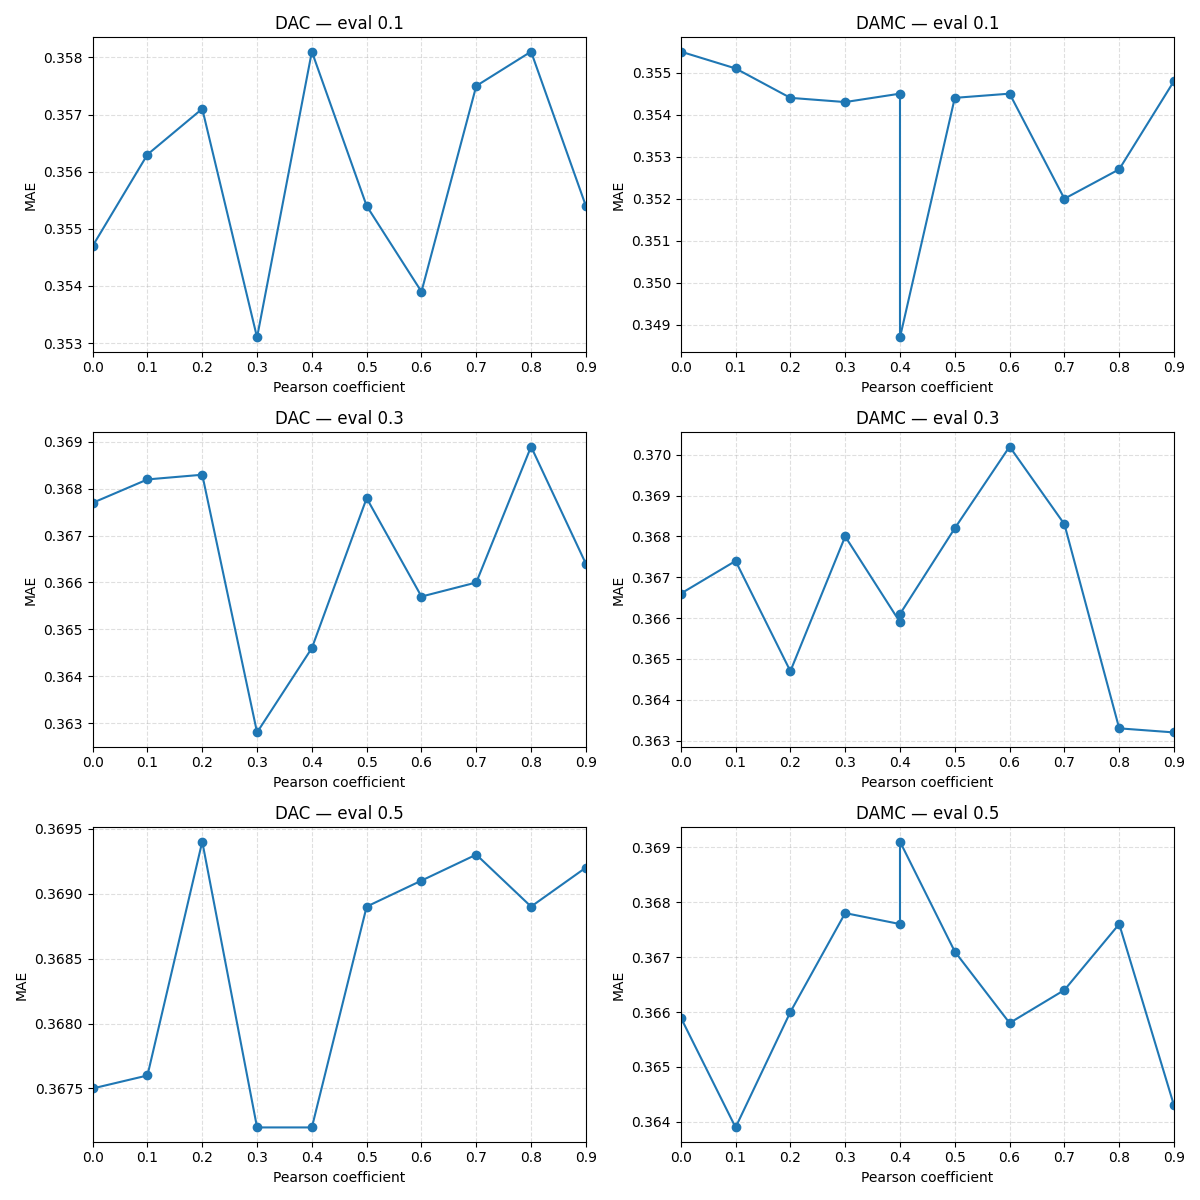
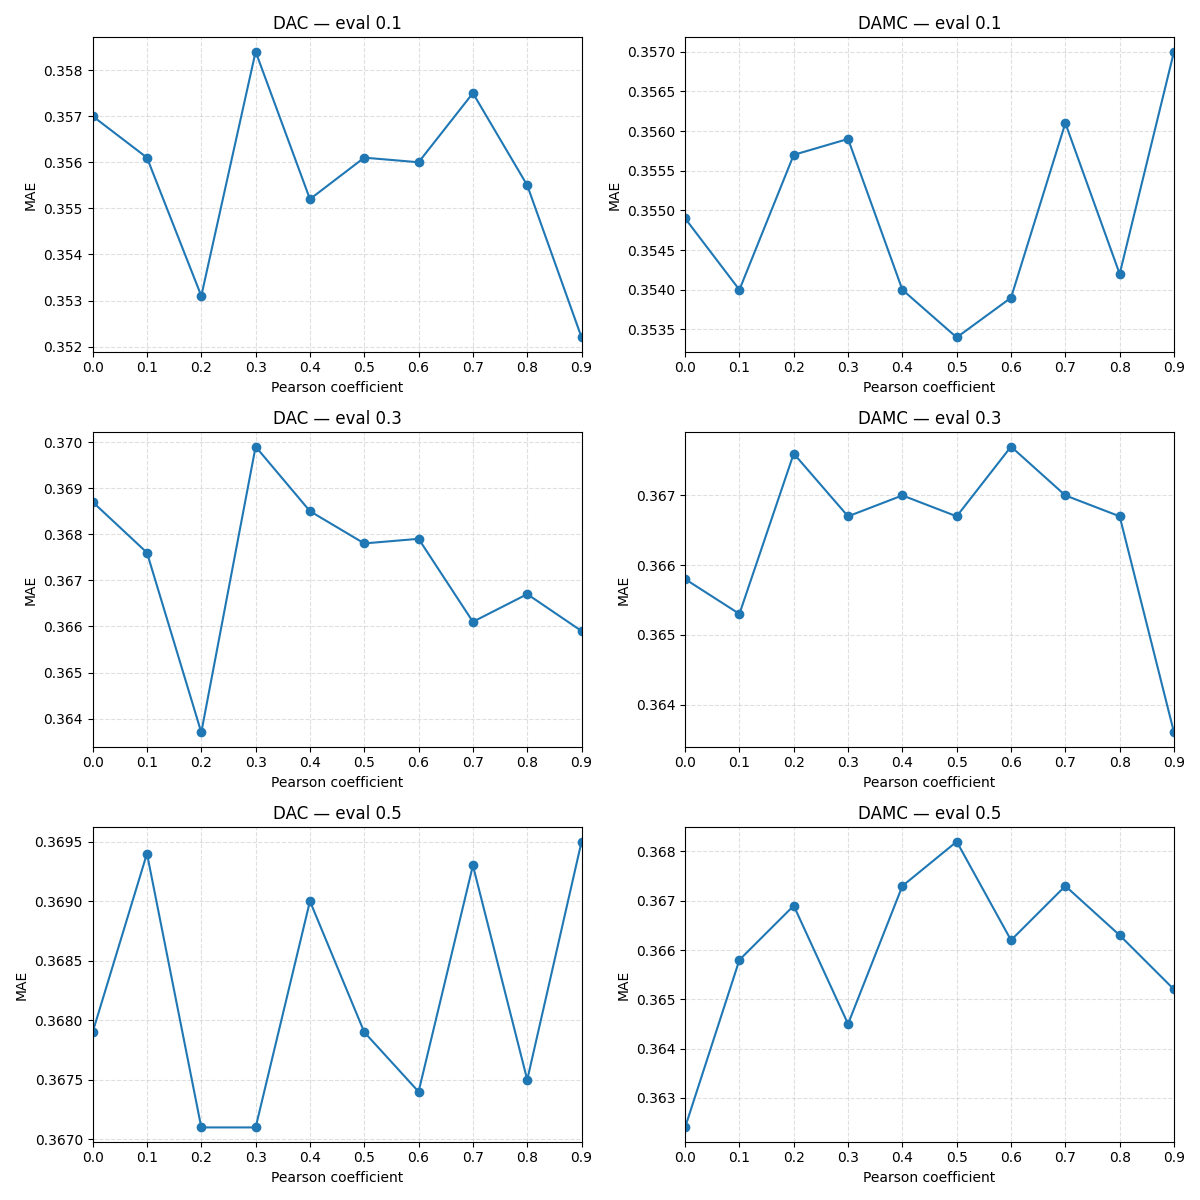
Update lab sensor data and visualizations

diff --git a/snapshot/plot_airquality_comparison.py b/snapshot/plot_airquality_comparison.py
@@ -138,7 +138,7 @@ def plot_results(results, out_path=None):
 
 def main():
     parser = argparse.ArgumentParser()
-    parser.add_argument('--dir', default='exp_results/Airquality_new', help='Directory with Airquality CSV results')
+    parser.add_argument('--dir', default='exp_results/Airquality2', help='Directory with Airquality CSV results')
     parser.add_argument('--out', default='plots/airquality_comparison.png', help='Output path for combined figure')
     parser.add_argument('--aggregate', default='plots/airquality_aggregated.csv', help='Path to save aggregated CSV of results')
     args = parser.parse_args()

diff --git a/snapshot/plot_labsensor_comparison.py b/snapshot/plot_labsensor_comparison.py
@@ -138,7 +138,7 @@ def plot_results(results, out_path=None):
 
 def main():
     parser = argparse.ArgumentParser()
-    parser.add_argument('--dir', default='exp_results/Labsensor', help='Directory with Labsensor CSV results')
+    parser.add_argument('--dir', default='exp_results/Labsensor2', help='Directory with Labsensor CSV results')
     parser.add_argument('--out', default='plots/labsensor_comparison.png', help='Output path for combined figure')
     parser.add_argument('--aggregate', default='plots/labsensor_aggregated.csv', help='Path to save aggregated CSV of results')
     args = parser.parse_args()